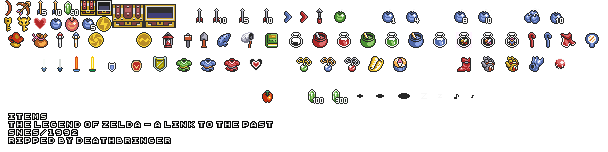
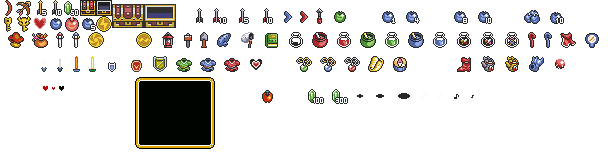
life bugging

Changed region(s): [[0.0, 0.5, 0.4688, 1.0], [0.0625, 0.5526, 0.125, 0.6053]]

diff --git a/cPlayer.cpp b/cPlayer.cpp
@@ -261,26 +261,47 @@ void cPlayer::DrawStatus(int cx, int cy){ // has to be really imprioved, only to
 		//TODO temporary fix
 	DrawObject(item_tex_id, cx, cy);
 
+	float maxX = 608.0f;
+	float maxY = 152.0f;
 
-	float bitx = 43.0f / 170.0f;
-	float bity = 39.0f/ 57.0f;
+	float xo, yo;
+	int lifeh, lifew;
+	float xf, yf;
+	lifeh = 7;
+	lifew = 7;
+	int paddingX = 60;
+	int paddingY = 110;
 	int life = getLife();
-	
-	float x0 = 7.0f / 170.0f;
-	float y0 = 11.0f / 57.0f;
+	int maxLife = getMaxLife();
+	yo = 92.0f;
+
+
 	glEnable(GL_TEXTURE_2D);
-	glBindTexture(GL_TEXTURE_2D, life_tex_id);
+	glBindTexture(GL_TEXTURE_2D, item_tex_id);
 	glBegin(GL_QUADS);
-	for (int i = 0; i < life; ++i) {
-		glTexCoord2f(x0, y0 + bity);	glVertex2i(cx + 80, cy + 105);  //Left Down
-		glTexCoord2f(x0 + bitx,y0 + bity);	glVertex2i(cx + 65, cy + 105); //right down
-		glTexCoord2f(x0 + bitx, y0);	glVertex2i(cx + 65, cy + 120); //right up
-		glTexCoord2f(x0, y0);	glVertex2i(cx + 80, cy + 120); //left up
-		cx += 20;
+	for (int i = 0; i < maxLife; i+=2) {
+		if (life / 2 > 0) {
+			xo = 42.0f;
+		}
+		else if (life > 0) {
+			xo = 50.0f;
+		}
+		else {
+			xo = 58.0f;
+		}
+		xf = (xo + lifew) / maxX;
+		yf = (yo - lifeh) / maxY;
+		xo = xo / maxX;
+		yo = yo / maxY;
+		glTexCoord2f(xo, yo);	glVertex2i(cx + paddingX,		 cy + paddingY); //Left Down
+		glTexCoord2f(xf, yo);	glVertex2i(cx + paddingX+lifew, cy + paddingY); //right down
+		glTexCoord2f(xf, yf);	glVertex2i(cx + paddingX+lifew, cy + paddingY+lifeh); //right up
+		glTexCoord2f(xo, yf);	glVertex2i(cx + paddingX,		 cy + paddingY+lifeh); //left up
+		paddingX -= 10;
+		life -= 2;
 	}
 	glEnd();
 	glDisable(GL_TEXTURE_2D);
-
 
 }
 
@@ -375,10 +396,10 @@ void cPlayer::BowAttack()
 	}
 }
 
-
+/*
 void cPlayer::setLifeTexId(int id) {
 	life_tex_id = id;
-}
+}*/
 void cPlayer::setItemTexId(int id) {
 	item_tex_id = id;
 }

diff --git a/cScene.cpp b/cScene.cpp
@@ -218,7 +218,7 @@ void cScene::addEnemy(int enemyType, int x, int y, int tex_id) {
 
 			enemies.push_back(new Soldado);
 			enemies[id]->SetTile(x,y);
-			enemies[id]->SetLife(3);
+			enemies[id]->SetMaxLife(3);
 			enemies[id]->SetWidthHeight(16, 28);
 			enemies[id]->SetState(STATE_WALKDOWN);
 			enemies[id]->setImage(tex_id);
@@ -227,7 +227,7 @@ void cScene::addEnemy(int enemyType, int x, int y, int tex_id) {
 	case PLANTABOMBA:
 			enemies.push_back(new PlantaBomba);
 			enemies[id]->SetTile(x,y);
-			enemies[id]->SetLife(3);
+			enemies[id]->SetMaxLife(3);
 			enemies[id]->SetWidthHeight(18,17);
 			enemies[id]->SetState(STATE_LOOKDOWN);
 			enemies[id]->setImage(tex_id);
@@ -235,7 +235,7 @@ void cScene::addEnemy(int enemyType, int x, int y, int tex_id) {
 	case GOLEM:
 			enemies.push_back(new Golem);
 			enemies[id]->SetTile(x,y);
-			enemies[id]->SetLife(3);
+			enemies[id]->SetMaxLife(3);
 			enemies[id]->SetWidthHeight(24, 25);
 			enemies[id]->SetState(STATE_SLEEP);
 			enemies[id]->setImage(tex_id);
@@ -243,7 +243,7 @@ void cScene::addEnemy(int enemyType, int x, int y, int tex_id) {
 	case BOSS:
 		enemies.push_back(new Boss);
 		enemies[id]->SetTile(x, y);
-		enemies[id]->SetLife(10);
+		enemies[id]->SetMaxLife(10);
 		enemies[id]->SetWidthHeight(32, 53);
 		enemies[id]->SetState(STATE_LOOKDOWN);
 		enemies[id]->setImage(tex_id);

diff --git a/cGame.cpp b/cGame.cpp
@@ -107,14 +107,14 @@ bool cGame::Init()
 	
 	//Player initialization
 	res = Data.LoadImage(IMG_PLAYER,"linkSpritepro2.png",GL_RGBA);
-	res = Data.LoadImage(IMG_LIFE, "corazones_vida.png", GL_RGBA);
+	//res = Data.LoadImage(IMG_LIFE, "corazones_vida.png", GL_RGBA);
 	if(!res) return false;
 	Player.SetTile(11,16);
-	Player.SetLife(3);
+	Player.SetMaxLife(6);
 	Player.SetWidthHeight(16,25);
 	Player.SetState(STATE_LOOKDOWN);
 	Player.setWeapon(SWORD);
-	Player.setLifeTexId(Data.GetID(IMG_LIFE));
+	//Player.setLifeTexId(Data.GetID(IMG_LIFE));
 	Player.setItemTexId(Data.GetID(IMG_ITEMS));
 	//Player.SetPosition(11*16, 16*16+8);
 	Player.setCurrentSceneId(0);

diff --git a/cPlayer.h b/cPlayer.h
@@ -27,7 +27,7 @@ public:
 	void BowAttack();
 	void setCurrentSceneId(int scene_id);
 	int getCurrentSceneId();
-	void setLifeTexId(int id);
+	//void setLifeTexId(int id);
 	void setItemTexId(int id);
 	void setWeapon(int weapon);
 	void changeWeapon();
@@ -38,7 +38,7 @@ private:
 	Flecha flecha;
 
 	int usingWeapon;
-	int life_tex_id;
+	//int life_tex_id;
 	int item_tex_id;
 	int current_scene_id;
 

diff --git a/cBicho.cpp b/cBicho.cpp
@@ -30,8 +30,9 @@ void cBicho::GetPosition(int *posx,int *posy)
 	*posx = x;
 	*posy = y;
 }
-void cBicho::SetLife(int life)
+void cBicho::SetMaxLife(int life)
 {
+	maxLife = life;
 	this->life = life;
 	alive = life > 0;
 }
@@ -387,4 +388,8 @@ void cBicho::setActionFinished(bool b) {
 }
 bool cBicho::isActionFinished() {
 	return actionFinished;
+}
+
+int  cBicho::getMaxLife() {
+	return maxLife;
 }

diff --git a/cBicho.h b/cBicho.h
@@ -43,8 +43,9 @@ public:
 
 	void SetPosition(int x,int y);
 	void GetPosition(int *x,int *y);
-	void SetLife(int life);
+	void SetMaxLife(int life);
 	int  getLife();
+	int  getMaxLife();
 	void SetTile(int tx,int ty);
 	void GetTile(int *tx,int *ty);
 	void SetWidthHeight(int w,int h);
@@ -93,6 +94,7 @@ protected:
 private:
 
 	int seq, delay;
+	int maxLife;
 	int life;
 	int state;
 

diff --git a/cData.h b/cData.h
@@ -9,7 +9,7 @@
 //Image identifiers
 #define IMG_OVERLOAD	0
 #define IMG_PLAYER	1
-#define IMG_LIFE	2
+//#define IMG_LIFE	2
 #define IMG_ENEMIES	3
 #define IMG_EAST_PALACE 4
 #define IMG_GOLEM 5
